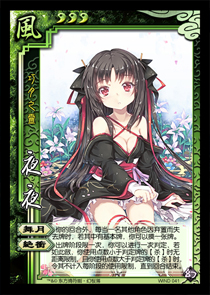
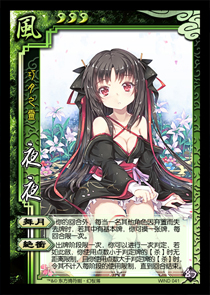
夜夜修改
另外加贺和春雪的描述有点问题

Changed region(s): [[0.0571, 0.4576, 0.8857, 0.8237], [0.1143, 0.2136, 0.1714, 0.4271]]

diff --git a/scenarios/chunxue.html b/scenarios/chunxue.html
@@ -593,7 +593,7 @@ footnotes: function () {
 <p>灵　梦：据说这里的东西拿回去能带来好运？掠夺开始咯！</p>
 <p>爱丽丝：....啊哈哈。</p>
 <p>魔理沙：啊，厉害的结界发现啦！芝麻开门！</p>
-<p>魔理沙：魔理沙：算了直接飞过去吧，话说刚才掉下去的三个幽灵一样的东西是什么的说？</p></div></div>
+<p>魔理沙：算了直接飞过去吧，话说刚才掉下去的三个幽灵一样的东西是什么的说？</p></div></div>
 <div class="paragraph"><p><font color="purple"><b>觉醒技</b></font>，若灵梦、魔理沙、咲夜、爱丽丝都使用牌指定过橙为目标后，除幽幽子和妖梦外的所有角色摸一张牌。</p></div>
 </div></div>
 <div class="sidebarblock">
